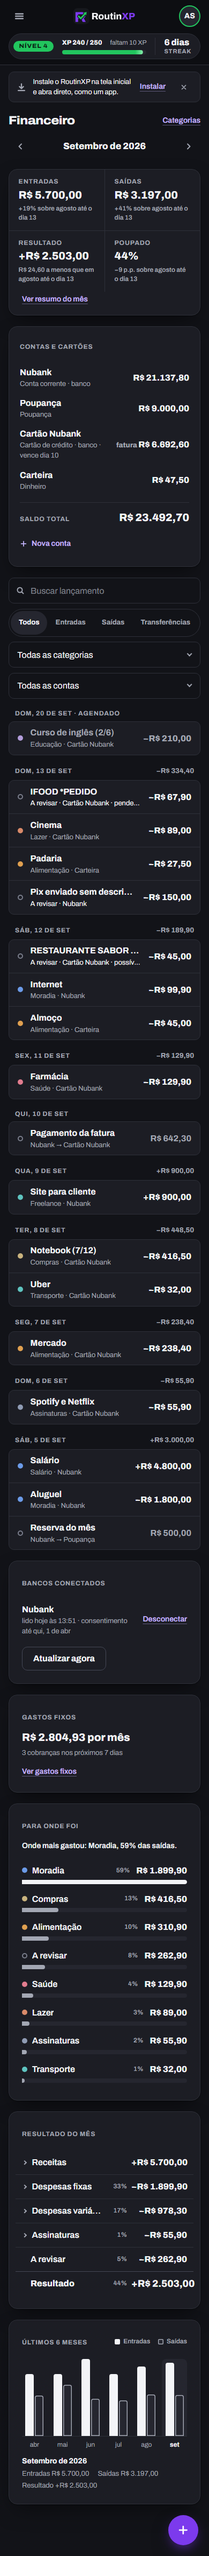
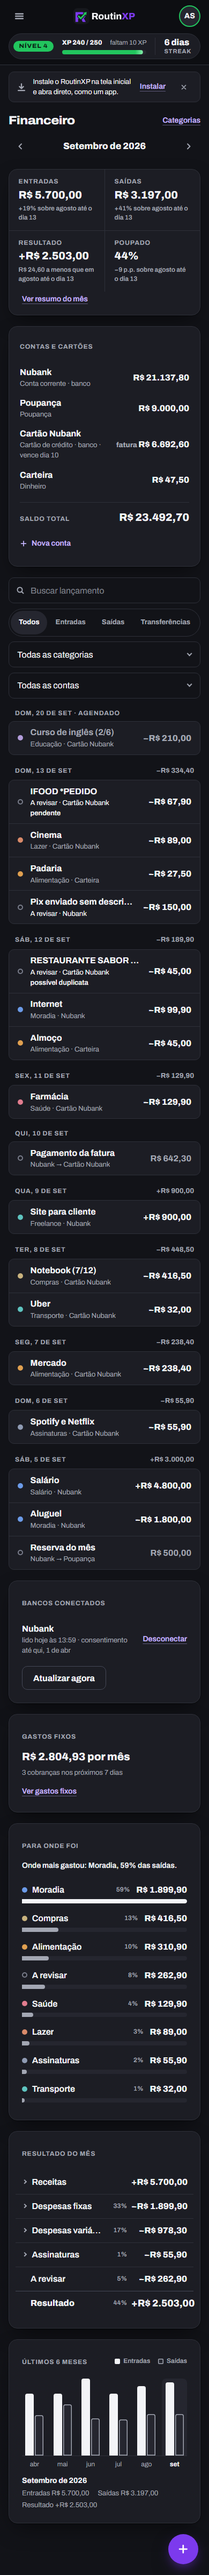
Open Finance: correções da revisão (banco ligado a uma conta só, juntar contas e duplicatas atômicos com saldo recalculado, saldo somado no banco, datas só com dia, pareamento sem cartão como origem, leituras com erro não apagam nem marcam lido, marcas visíveis no celular)

diff --git a/supabase/functions/sincronizar-banco/index.ts b/supabase/functions/sincronizar-banco/index.ts
@@ -27,7 +27,10 @@ const CORS = {
 const PLUGGY = 'https://api.pluggy.ai'
 const FUSO = 'America/Sao_Paulo'
 const DIAS_PRIMEIRA_LEITURA = 90
-const DIAS_RELEITURA = 10
+// Releitura larga: um lançamento pendente pode compensar com data mais antiga.
+const DIAS_RELEITURA = 30
+// Itens nessa situação não foram lidos de verdade: a tela mostra o erro, não "lido hoje".
+const STATUS_COM_ERRO = new Set(['LOGIN_ERROR', 'OUTDATED', 'WAITING_USER_INPUT'])
 const ESPERA_BOTAO_MS = 5 * 60_000
 
 const URL_SUPABASE = Deno.env.get('SUPABASE_URL')!
@@ -58,6 +61,8 @@ function resposta(corpo: unknown, status = 200) {
 }
 
 const diaBrasilia = (iso: string | Date) => new Intl.DateTimeFormat('en-CA', { timeZone: FUSO }).format(new Date(iso))
+// Datas só com o dia chegam como meia-noite UTC: convertê-las para Brasília voltaria um dia.
+const diaDaPluggy = (iso: string) => (/T00:00:00(\.0+)?Z$/.test(iso) ? iso.slice(0, 10) : diaBrasilia(iso))
 const hoje = () => diaBrasilia(new Date())
 function somarDias(dia: string, n: number) {
   const [a, m, d] = dia.split('-').map(Number)
@@ -116,13 +121,14 @@ async function sincronizar(userId: string, itens: string[]) {
     const agora = new Date().toISOString()
     try {
       const item = await pluggy(chave, `/items/${encodeURIComponent(itemId)}`)
+      const itemComErro = STATUS_COM_ERRO.has(item.status)
       await admin
         .from('fin_conexoes')
         .update({
           banco: item.connector?.name ?? null,
           imagem_url: item.connector?.imageUrl ?? null,
           status: item.status ?? null,
-          ultimo_erro: item.error?.message ?? null,
+          ultimo_erro: itemComErro ? (item.error?.message ?? item.status) : null,
           consentimento_expira: item.consentExpiresAt ?? null,
           ultima_tentativa: agora,
         })
@@ -141,12 +147,12 @@ async function sincronizar(userId: string, itens: string[]) {
         let conta = existente
         const desde = existente ? somarDias(dia, -DIAS_RELEITURA) : somarDias(dia, -DIAS_PRIMEIRA_LEITURA)
         if (!conta) {
-          const diaDe = (iso?: string | null) => (iso ? Number(diaBrasilia(iso).slice(8, 10)) : null)
+          const diaDe = (iso?: string | null) => (iso ? Number(diaDaPluggy(iso).slice(8, 10)) : null)
           const { data: nova, error } = await admin
             .from('fin_contas')
             .insert({
               user_id: userId,
-              nome: (c.marketingName || c.name || 'Conta do banco').slice(0, 60),
+              nome: (c.marketingName?.trim() || c.name?.trim() || 'Conta do banco').slice(0, 60),
               tipo,
               origem: 'banco',
               externo_id: c.id,
@@ -161,11 +167,13 @@ async function sincronizar(userId: string, itens: string[]) {
           conta = nova
           resumo.contas++
         }
-        // No cartão, o saldo do banco é o que se deve: no Financeiro fica negativo.
-        const saldoBanco = conta.tipo === 'cartao' ? -centavos(c.balance) : Math.round(c.balance * 100)
+        // No cartão, o saldo do banco é o que se deve: no Financeiro fica negativo (crédito, positivo).
+        const saldoBanco = conta.tipo === 'cartao' ? -Math.round(c.balance * 100) : Math.round(c.balance * 100)
+        const lidos = await lancamentosDaConta(chave, c.id, desde)
+        // Só entra na lista depois de ler: se a leitura falhar, nada desta conta é apagado.
         contasLidas.push({ id: conta.id, tipo: conta.tipo, saldoBanco, saldoInicialEm: conta.saldo_inicial_em, desde })
 
-        for (const x of await lancamentosDaConta(chave, c.id, desde)) {
+        for (const x of lidos) {
           const valor = centavos(x.amount)
           if (!valor) continue
           importadas.push({
@@ -173,13 +181,14 @@ async function sincronizar(userId: string, itens: string[]) {
             conta_id: conta.id,
             tipo: x.type === 'CREDIT' ? 'entrada' : 'saida',
             valor,
-            data: diaBrasilia(x.date),
-            descricao: (x.description || 'Lançamento do banco').trim().slice(0, 200),
+            data: diaDaPluggy(x.date),
+            descricao: (x.description?.trim() || 'Lançamento do banco').slice(0, 200),
             pendente: x.status === 'PENDING',
           })
         }
       }
-      await admin.from('fin_conexoes').update({ ultima_sync: agora, ultimo_erro: null }).eq('user_id', userId).eq('item_id', itemId)
+      if (itemComErro) resumo.erros.push(item.status)
+      else await admin.from('fin_conexoes').update({ ultima_sync: agora, ultimo_erro: null }).eq('user_id', userId).eq('item_id', itemId)
     } catch (erro) {
       const codigo = erro instanceof Error ? erro.message : 'falha'
       resumo.erros.push(codigo)
@@ -187,8 +196,15 @@ async function sincronizar(userId: string, itens: string[]) {
     }
   }
 
-  if (importadas.length) await gravarLancamentos(userId, importadas, contasLidas, resumo)
-  await ajustarSaldos(userId, contasLidas)
+  try {
+    if (importadas.length) await gravarLancamentos(userId, importadas, contasLidas, resumo)
+    await ajustarSaldos(userId, contasLidas)
+  } catch (erro) {
+    // Falha ao gravar fica registrada nas conexões, para a tela mostrar.
+    const codigo = erro instanceof Error ? erro.message : ((erro as { message?: string })?.message ?? 'falha_gravar')
+    resumo.erros.push(codigo)
+    await admin.from('fin_conexoes').update({ ultimo_erro: codigo }).eq('user_id', userId).in('item_id', itens)
+  }
   return resumo
 }
 
@@ -199,10 +215,11 @@ async function emLotes<T>(lista: T[], tamanho: number, fn: (lote: T[]) => Promis
 async function gravarLancamentos(
   userId: string,
   importadas: Importada[],
-  contasLidas: { id: string; desde: string }[],
+  contasLidas: { id: string; tipo: string; desde: string }[],
   resumo: { importados: number; atualizados: number; transferencias: number; duplicatas: number },
 ) {
   const ids = importadas.map((x) => x.externo)
+  const tipoDaConta = new Map(contasLidas.map((c) => [c.id, c.tipo]))
   const conhecidos = new Map<string, { id: string; tipo: string }>()
   const destinos = new Set<string>()
   await emLotes(ids, 200, async (lote) => {
@@ -226,11 +243,14 @@ async function gravarLancamentos(
   // Transferências entre contas conectadas: saída de um lado, entrada do mesmo valor do outro.
   const usadas = new Set<string>()
   const linhas: Record<string, unknown>[] = []
-  for (const saida of novas.filter((x) => x.tipo === 'saida')) {
-    const par = novas.find(
-      (e) => e.tipo === 'entrada' && !usadas.has(e.externo) && e.conta_id !== saida.conta_id && e.valor === saida.valor && distanciaDias(e.data, saida.data) <= 2,
-    )
-    if (!par) continue
+  for (const saida of novas.filter((x) => x.tipo === 'saida' && tipoDaConta.get(x.conta_id) !== 'cartao')) {
+    const candidatos = novas
+      .filter((e) => e.tipo === 'entrada' && !usadas.has(e.externo) && e.conta_id !== saida.conta_id && e.valor === saida.valor && distanciaDias(e.data, saida.data) <= 2)
+      .sort((a, b) => distanciaDias(a.data, saida.data) - distanciaDias(b.data, saida.data))
+    if (!candidatos.length) continue
+    // Dois candidatos igualmente próximos: ambíguo, ficam como lançamentos comuns.
+    if (candidatos.length > 1 && distanciaDias(candidatos[0].data, saida.data) === distanciaDias(candidatos[1].data, saida.data)) continue
+    const par = candidatos[0]
     usadas.add(par.externo)
     usadas.add(saida.externo)
     linhas.push({
@@ -307,29 +327,16 @@ async function gravarLancamentos(
 }
 
 // O saldo inicial é recalculado para que o saldo do Financeiro bata com o do banco hoje.
-async function ajustarSaldos(userId: string, contas: { id: string; saldoBanco: number; saldoInicialEm: string }[]) {
-  const dia = hoje()
+// A soma do movimento é feita no banco (fin_movimento_conta), sem limite de linhas.
+async function ajustarSaldos(_userId: string, contas: { id: string; saldoBanco: number; saldoInicialEm: string }[]) {
   for (const conta of contas) {
-    const [{ data: saidas }, { data: chegadas }] = await Promise.all([
-      admin
-        .from('fin_transacoes')
-        .select('tipo, valor_centavos')
-        .eq('user_id', userId)
-        .eq('conta_id', conta.id)
-        .gte('data', conta.saldoInicialEm)
-        .lte('data', dia),
-      admin
-        .from('fin_transacoes')
-        .select('valor_centavos')
-        .eq('user_id', userId)
-        .eq('conta_destino_id', conta.id)
-        .gte('data', conta.saldoInicialEm)
-        .lte('data', dia),
-    ])
-    const movimento =
-      (saidas ?? []).reduce((soma, t) => soma + (t.tipo === 'entrada' ? t.valor_centavos : -t.valor_centavos), 0) +
-      (chegadas ?? []).reduce((soma, t) => soma + t.valor_centavos, 0)
-    await admin.from('fin_contas').update({ saldo_inicial_centavos: conta.saldoBanco - movimento }).eq('id', conta.id)
+    const { data: movimento, error } = await admin.rpc('fin_movimento_conta', { p_conta: conta.id, p_desde: conta.saldoInicialEm })
+    if (error) throw error
+    const { error: erroConta } = await admin
+      .from('fin_contas')
+      .update({ saldo_inicial_centavos: conta.saldoBanco - Number(movimento ?? 0) })
+      .eq('id', conta.id)
+    if (erroConta) throw erroConta
   }
 }
 
@@ -351,7 +358,10 @@ Deno.serve(async (req) => {
     if (!valido) return resposta({ erro: 'nao_autorizado' }, 401)
     const { data: conexoes } = await admin.from('fin_conexoes').select('user_id, item_id')
     const porUsuario = new Map<string, string[]>()
-    for (const c of conexoes ?? []) porUsuario.set(c.user_id, [...(porUsuario.get(c.user_id) ?? []), c.item_id])
+    const configurados = itensConfigurados()
+    for (const c of (conexoes ?? []).filter((x) => configurados.includes(x.item_id))) {
+      porUsuario.set(c.user_id, [...(porUsuario.get(c.user_id) ?? []), c.item_id])
+    }
     const resultados = []
     for (const [userId, itens] of porUsuario) {
       try {
@@ -388,9 +398,10 @@ Deno.serve(async (req) => {
   if (recentes?.length) return resposta({ erro: 'muitas_tentativas' }, 429)
 
   if (corpo.modo === 'conectar') {
+    // Item já ligado a outra conta continua com ela (unique item_id): nada é copiado para cá.
     await admin.from('fin_conexoes').upsert(
       configurados.map((item_id) => ({ user_id: adminId, item_id })),
-      { onConflict: 'user_id,item_id', ignoreDuplicates: true },
+      { onConflict: 'item_id', ignoreDuplicates: true },
     )
   }
   // Só as conexões ativas que continuam nos segredos.

diff --git a/src/lib/financeiro.js b/src/lib/financeiro.js
@@ -217,21 +217,10 @@ export async function lerBancos(modo) {
   return data
 }
 
-// Desconectar: para de ler o banco. Com apagar, os lançamentos e contas importados saem também
-// (contas com lançamentos manuais ficam).
+// Desconectar: para de ler o banco. Com apagar, os lançamentos e contas importados saem também;
+// sem apagar, as contas voltam a ser manuais. Uma operação só no banco.
 export async function desconectarBanco(conexao, apagar) {
-  if (apagar) {
-    const contas = ok(await supabase.from('fin_contas').select('id').eq('item_id', conexao.item_id).eq('origem', 'banco'))
-    const ids = contas.map((c) => c.id)
-    if (ids.length) {
-      ok(await supabase.from('fin_transacoes').delete().eq('origem', 'banco').in('conta_id', ids))
-      for (const id of ids) {
-        const { error } = await supabase.from('fin_contas').delete().eq('id', id)
-        if (error && error.code !== '23503') throw error
-      }
-    }
-  }
-  ok(await supabase.from('fin_conexoes').delete().eq('id', conexao.id))
+  ok(await supabase.rpc('fin_desconectar_banco', { p_conexao: conexao.id, p_apagar: apagar }))
 }
 
 // Conta importada + conta manual que já existia viram uma só.
@@ -239,14 +228,8 @@ export async function juntarContas(importadaId, manualId) {
   ok(await supabase.rpc('fin_juntar_contas', { p_importada: importadaId, p_manual: manualId }))
 }
 
-// Possível duplicata: juntar apaga o manual (a categoria dele passa para o do banco, se faltar);
-// "são diferentes" só tira a marca.
-export async function resolverDuplicata(transacao, manual, juntar) {
-  if (juntar && manual) {
-    const campos = { duplicata_de: null, ...(transacao.categoria_id ? {} : { categoria_id: manual.categoria_id }) }
-    ok(await supabase.from('fin_transacoes').update(campos).eq('id', transacao.id))
-    ok(await supabase.from('fin_transacoes').delete().eq('id', manual.id))
-    return
-  }
-  ok(await supabase.from('fin_transacoes').update({ duplicata_de: null }).eq('id', transacao.id))
+// Possível duplicata: juntar apaga o manual (categoria e vínculo com o gasto fixo passam para o do
+// banco); "são diferentes" só tira a marca. Uma operação só no banco.
+export async function resolverDuplicata(transacao, _manual, juntar) {
+  ok(await supabase.rpc('fin_resolver_duplicata', { p_banco: transacao.id, p_juntar: juntar }))
 }

diff --git a/src/pages/Financeiro.jsx b/src/pages/Financeiro.jsx
@@ -457,9 +457,12 @@ function LinhaLancamento({ transacao: x, conta, destino, categoria, onAbrir }) {
       />
       <span className="fin-linha__texto">
         <span className="fin-linha__descricao">{x.descricao}</span>
-        <span className="fin-linha__detalhe" data-revisar={revisar || Boolean(x.duplicata_de)}>
-          {detalhe}
-          {marcas && ` · ${marcas}`}
+        {/* As marcas ficam fora das reticências: no celular, "possível duplicata" não some. */}
+        <span className="fin-linha__detalhes">
+          <span className="fin-linha__detalhe" data-revisar={revisar}>
+            {detalhe}
+          </span>
+          {marcas && <span className="fin-linha__marcas">{marcas}</span>}
         </span>
       </span>
       <span className="fin-linha__valor">{formatarReais(valor, { sinal: x.tipo === 'entrada' })}</span>

diff --git a/src/dev/previaFinanceiro.js b/src/dev/previaFinanceiro.js
@@ -317,6 +317,7 @@ export async function desconectarBanco(conexao, apagar) {
     const ids = contas.filter((c) => c.item_id === conexao.item_id && c.origem === 'banco').map((c) => c.id)
     transacoes = transacoes.filter((x) => !(x.origem === 'banco' && ids.includes(x.conta_id)))
   }
+  contas = contas.map((c) => (c.item_id === conexao.item_id ? { ...c, origem: 'manual', item_id: null } : c))
   conexoes = conexoes.filter((c) => c.id !== conexao.id)
 }
 

diff --git a/src/components/FinanceiroParts.jsx b/src/components/FinanceiroParts.jsx
@@ -235,7 +235,8 @@ export function LancamentoDialog({ transacao, contas, categorias, manualParecido
         {erro && <Aviso>{erro}</Aviso>}
 
         <div className="dialogo__acoes">
-          {transacao && (
+          {/* Do banco não se exclui: voltaria na próxima leitura. */}
+          {transacao && !doBanco && (
             <button
               type="button"
               className="dialogo__excluir"

diff --git a/src/pages/financeiro.css b/src/pages/financeiro.css
@@ -1310,3 +1310,22 @@ button.fin-dre__botao:hover {
 .dialogo__campos[hidden] {
   display: none;
 }
+
+.fin-linha__detalhes {
+  display: flex;
+  flex-wrap: wrap;
+  column-gap: 0.4rem;
+  min-width: 0;
+}
+
+.fin-linha__detalhes .fin-linha__detalhe {
+  flex: 0 1 auto;
+  min-width: 0;
+}
+
+.fin-linha__marcas {
+  font-size: 0.8125rem;
+  font-weight: 600;
+  color: var(--ink);
+  white-space: nowrap;
+}
